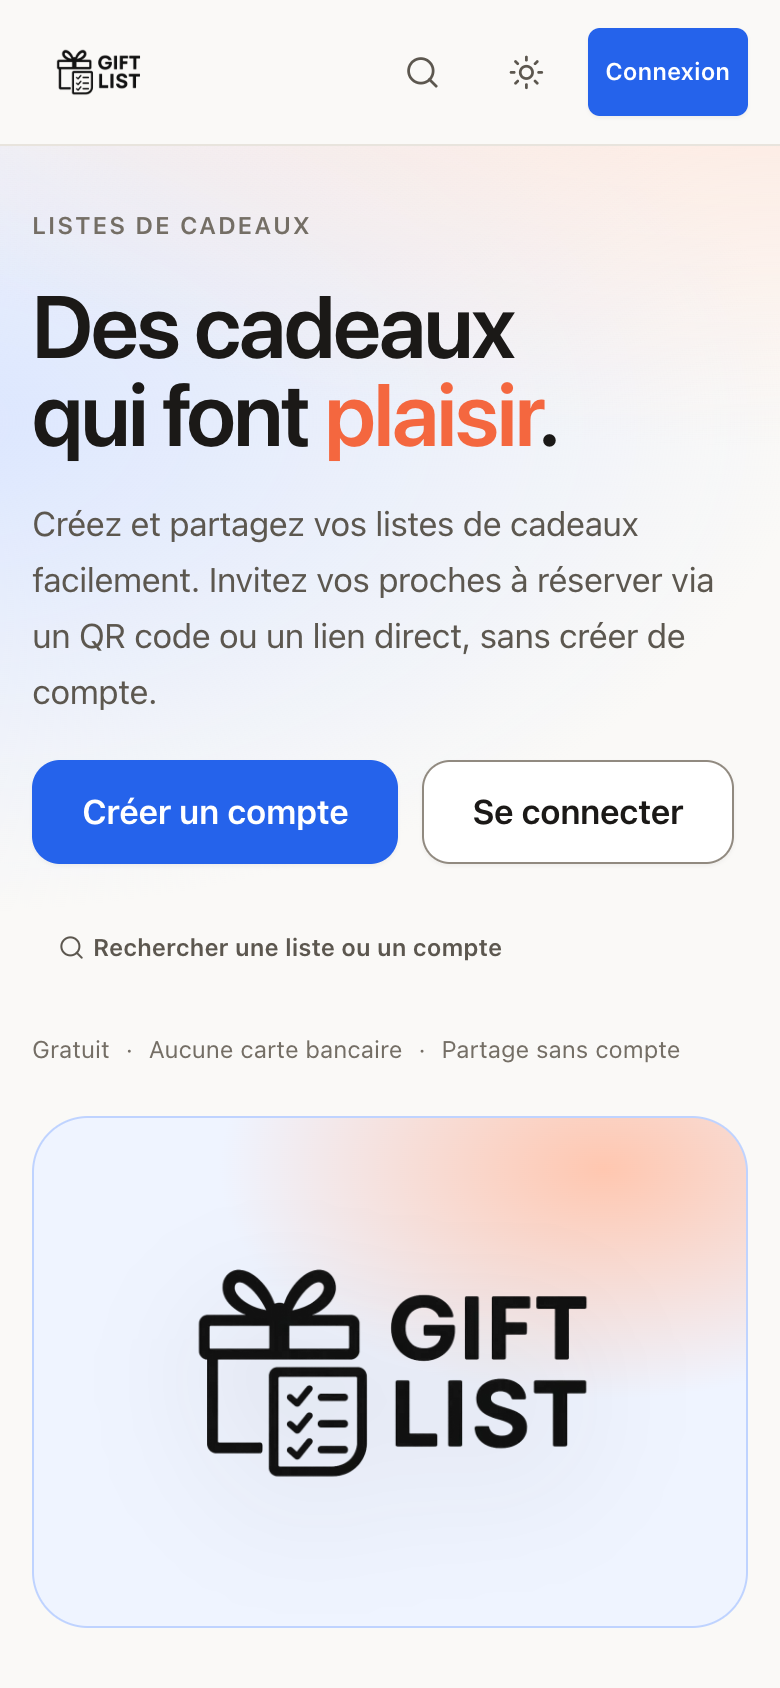
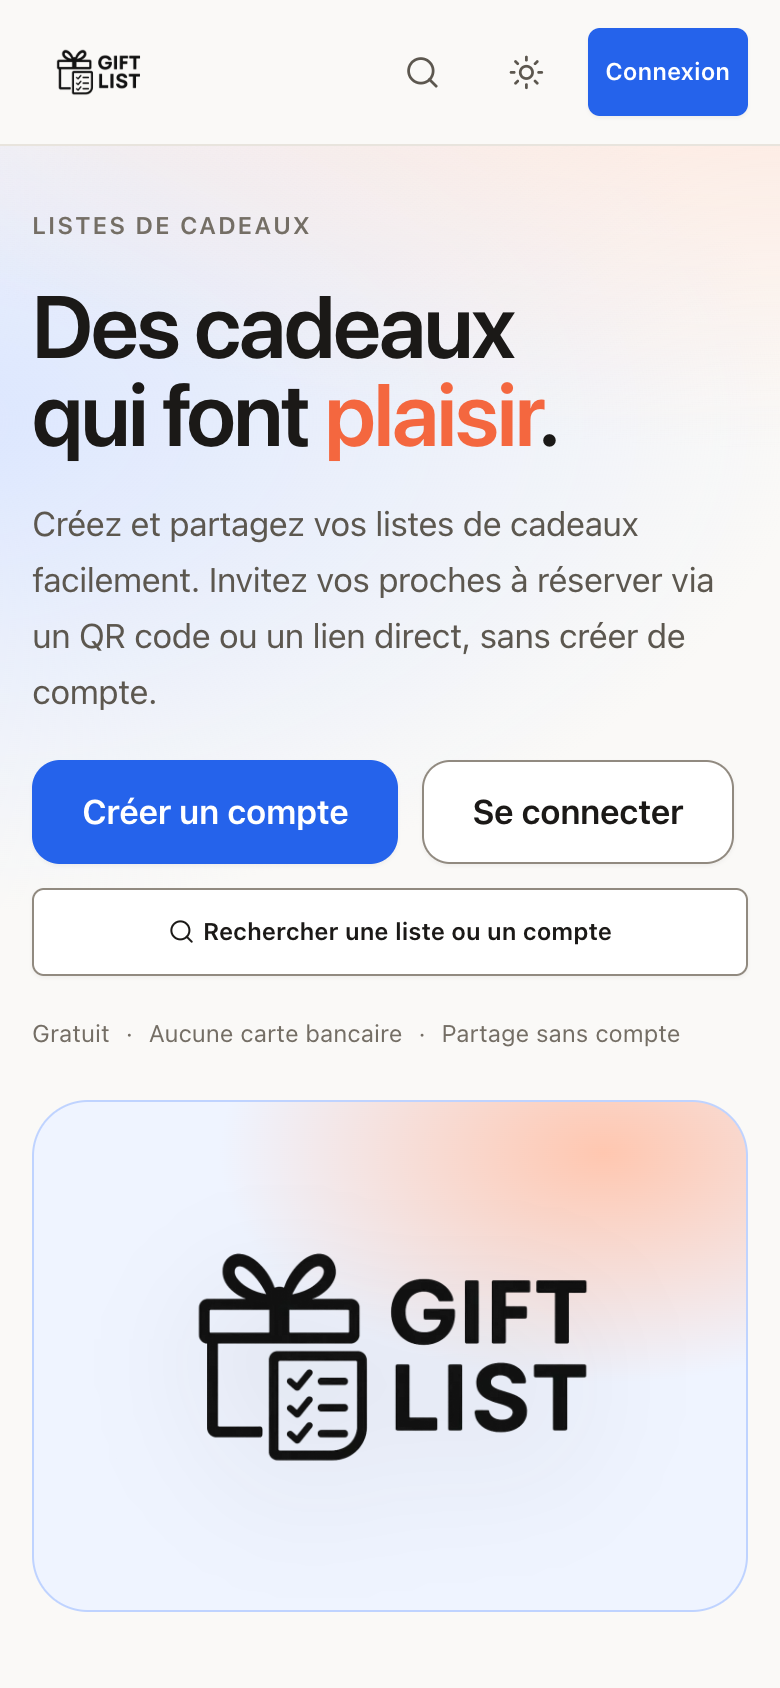
Outline the mobile hero search button

diff --git a/apps/next/src/components/home/HomePage.tsx b/apps/next/src/components/home/HomePage.tsx
@@ -56,15 +56,15 @@ export function HomePage() {
                   Se connecter
                 </Link>
               )}
+              {user ? null : (
+                <Link href="/search" className="ds-btn ds-btn--secondary ds-btn--sm ds-home__search-link">
+                  <span className="ds-btn__icon" aria-hidden="true">
+                    <Search size={17} strokeWidth={1.8} />
+                  </span>
+                  Rechercher une liste ou un compte
+                </Link>
+              )}
             </div>
-            {user ? null : (
-              <Link href="/search" className="ds-btn ds-btn--ghost ds-btn--sm ds-home__search-link">
-                <span className="ds-btn__icon" aria-hidden="true">
-                  <Search size={17} strokeWidth={1.8} />
-                </span>
-                Rechercher une liste ou un compte
-              </Link>
-            )}
             <div className="ds-home__meta">
               <span>Gratuit</span>
               <span aria-hidden="true">·</span>

diff --git a/apps/next/src/styles/_app.scss b/apps/next/src/styles/_app.scss
@@ -921,9 +921,10 @@
     gap: var(--ds-space-3);
   }
 
-  .ds-home__copy .ds-home__search-link {
-    justify-self: start;
-    width: fit-content;
+  .ds-home__actions .ds-home__search-link {
+    flex: 1 1 100%;
+    width: 100%;
+    justify-content: center;
 
     @include ds-media-up('md') {
       display: none;

diff --git a/specs/029-mobile-tab-navigation/spec.md b/specs/029-mobile-tab-navigation/spec.md
@@ -11,7 +11,7 @@ On the web below 768 px the header hides the primary navigation, so “Mes liste
 - **User jobs**: move between my lists, discover public lists/accounts, and manage my account — on a phone.
 - **Primary navigation**: three destinations — Mes listes (`/dashboard`), Recherche (`/search`), Profil (`/profile`).
 - **Account**: the top-right avatar opens a menu with **Mon profil**, a separator, and **Se déconnecter**; it never contains lists.
-- **Logged out**: discovery is available without an account via a header search icon and a tertiary search button under the hero’s “Créer un compte / Se connecter” pair.
+- **Logged out**: discovery is available without an account via a header search icon and an outlined search button aligned to the hero action group.
 - **Success**: each destination is one tap away; the active tab is visible; no desktop change.
 - **Non-goals**: desktop layout, native app, auth logic, server/API.
 
@@ -31,7 +31,7 @@ On the web below 768 px the header hides the primary navigation, so “Mes liste
 - **FR-003**: The top-right avatar menu remains on mobile: **Mon profil**, separator, **Se déconnecter**; “Mes listes” is removed. Desktop keeps its existing profile/logout menu, without separator or lists.
 - **FR-004**: Clicking “Mon profil” or the Profil tab opens `/profile` and marks Profil active; the same follows for Mes listes and Recherche.
 - **FR-005**: iOS Safari: the bar sits above the browser bottom toolbar/home indicator using `viewport-fit=cover` (already set) + `env(safe-area-inset-bottom)`; a page spacer prevents content/footer occlusion. No fixed overlay on the Safari search bar.
-- **FR-006**: Logged out on mobile, the header shows a search icon (`/search`), plus theme and Connexion; the home hero adds a tertiary ghost button “Rechercher une liste ou un compte” below the account CTAs. Both are hidden at ≥768 px; desktop is unchanged.
+- **FR-006**: Logged out on mobile, the header shows a search icon (`/search`), plus theme and Connexion; the home hero adds an **outlined secondary** search button “Rechercher une liste ou un compte”, **full width of the action group**, below the account CTAs. Both are hidden at ≥768 px; desktop is unchanged.
 - **FR-007**: No API, data, auth or native change; desktop must be visually identical.
 
 ## Success Criteria
@@ -39,7 +39,7 @@ On the web below 768 px the header hides the primary navigation, so “Mes liste
 - At 390 px logged in: bottom bar with 3 tabs, correct active state; menu shows Profil / separator / Déconnexion; both profile paths land on `/profile` with Profil active.
 - At 320 px: no horizontal overflow; header and bar remain usable.
 - At 768 px and 1440 px: no bottom bar, no mobile search icon/button, desktop header/menu unchanged.
-- Logged out at 390 px: search icon and hero search button both open `/search`.
+- Logged out at 390 px: search icon and hero search button both open `/search`; the hero button is outlined and spans the action group width.
 - Keyboard: bar links reachable, focus ring visible; menu separator is not focusable; Escape closes the menu.
 - `bun run web:typecheck`, `bun run web:lint`, `bun run web:build` pass.
 

diff --git a/specs/029-mobile-tab-navigation/plan.md b/specs/029-mobile-tab-navigation/plan.md
@@ -7,7 +7,7 @@
 
 ## Constitution check
 
-- **One primary action per view**: tabs are navigation; the hero search button is ghost/tertiary.
+- **One primary action per view**: tabs are navigation; the hero search button is an outlined secondary action, not a primary.
 - **Account menu**: avatar menu keeps identity/logout only; desktop untouched.
 - **Mobile**: app-style bottom navigation, no burger, no overlay/dim.
 - **Accessibility**: 44 px targets, labels, `aria-current`, focus ring, separator not focusable, Escape closes menu.
@@ -24,7 +24,7 @@
    - logged-out mobile search icon before the theme toggle (hidden ≥md);
    - account menu items become `Mon profil`, a mobile-only separator, `Se déconnecter`; remove `Mes listes`.
 4. **`DropdownMenu`**: support `separator?: boolean` items rendered as `role="separator"` (mobile-only class).
-5. **`HomePage`**: logged-out mobile ghost button with Search icon “Rechercher une liste ou un compte” under the hero actions (hidden ≥md).
+5. **`HomePage`**: logged-out mobile outlined secondary button with Search icon “Rechercher une liste ou un compte”, full width of the action group, below the account CTAs (hidden ≥md).
 6. **SCSS**: `.ds-tabbar`, `.ds-tabbar__item`, `.ds-tabbar-spacer`, `.ds-header__mobile-search`, `.ds-home__search-link`, `.ds-dropdown__separator`; tab bar display only ≤md; safe-area padding; z-index sticky.
 7. **Desktop**: every new element is hidden ≥md; account menu keeps profile/logout; no desktop markup visible.
 

diff --git a/specs/029-mobile-tab-navigation/verification.md b/specs/029-mobile-tab-navigation/verification.md
@@ -8,8 +8,8 @@
 | 320 × 700 logged in | Bar fits; labels readable; `scrollWidth === innerWidth`; header 73 px |
 | 768 × 1024 logged in | Bar hidden; desktop header nav (`Mes listes`, `Recherche`) visible |
 | 1440 × 900 logged in | Bar hidden; header/nav/account unchanged; desktop menu = Mon profil + Se déconnecter (no separator, no lists) |
-| 390 × 844 logged out | No bar; header search icon + theme + Connexion; hero ghost button “Rechercher une liste ou un compte” below the account CTAs; both open `/search` |
-| 320 × 700 logged out | Same, no overflow; hero search width 248 px |
+| 390 × 844 logged out | No bar; header search icon + theme + Connexion; hero **outlined secondary** button “Rechercher une liste ou un compte” spanning the action-group width (358 px, 1 px border); both open `/search` |
+| 320 × 700 logged out | Same, no overflow; hero search width 288 px = action-group width |
 | `/profile` | Bar active on **Profil**, including after clicking the top-right menu item |
 | `/search` | Bar active on **Recherche** |
 | `/list/TESTA1`, `/u/camille_demo` | Bar visible, no active tab (detail/browsing pages) |

diff --git a/specs/029-mobile-tab-navigation/tasks.md b/specs/029-mobile-tab-navigation/tasks.md
@@ -5,7 +5,7 @@
 - [x] T003 Render it from `AppChrome`; hide on standalone design-system.
 - [x] T004 Header: logged-out mobile search icon; account menu profile/separator/logout, remove lists.
 - [x] T005 DropdownMenu separator support (mobile-only).
-- [x] T006 Home hero mobile search button under the account CTAs.
+- [x] T006 Home hero mobile outlined search button, full width of the action group.
 - [x] T007 SCSS: bar, spacer, safe-area, header search, hero link, separator; desktop hidden.
 - [x] T008 Verify 390/320/768/1440, menu/profile navigation, logged-out search, keyboard, dark/light.
 - [x] T009 Run typecheck/lint/build and record `verification.md`.
